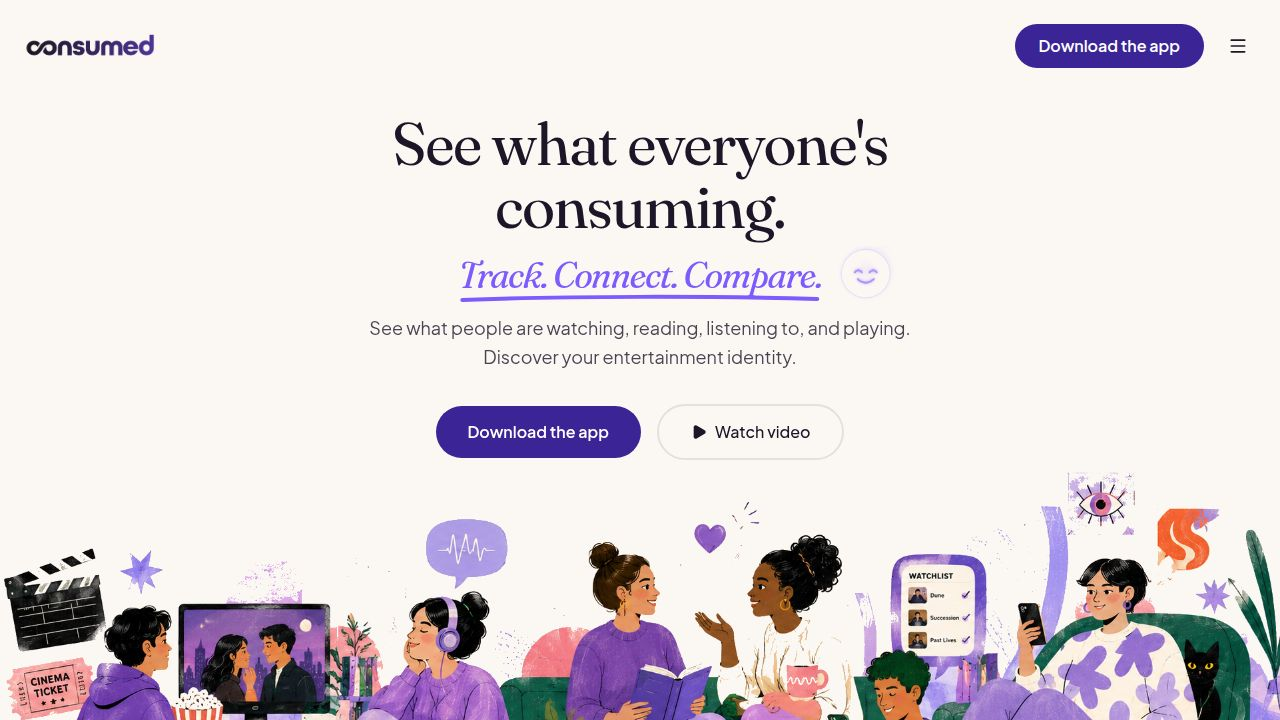
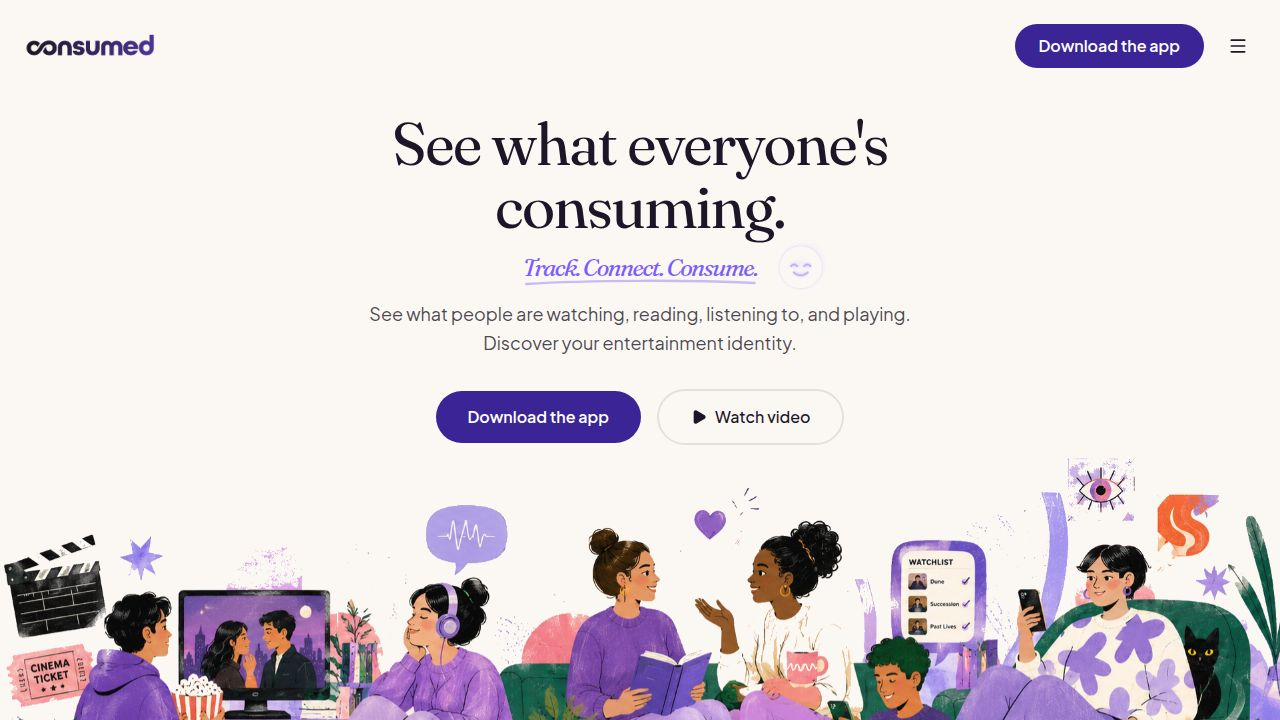
Remove carousel controls and adjust spacing for better layout
Removes navigation buttons, dot indicators, and label from the PhoneCarousel component in `home.tsx`, uninstalls `ChevronLeft` and `ChevronRight` from lucide-react, and adjusts vertical padding on the "how-it-works" and "rooms" sections to reduce excess space.

Replit-Commit-Author: Agent
Replit-Commit-Session-Id: 1054afe4-a81a-4bfc-9d50-b308ff59b433
Replit-Commit-Checkpoint-Type: full_checkpoint
Replit-Commit-Event-Id: a0e9d976-8bd8-4393-b0b6-65352d35b189
Replit-Commit-Screenshot-Url: https://storage.googleapis.com/screenshot-production-us-central1/3ba4014b-a542-439a-b8e3-25ffaea1718b/1054afe4-a81a-4bfc-9d50-b308ff59b433/XyA5uoj
Replit-Helium-Checkpoint-Created: true

Changed region(s): [[0.0, 0.6417, 1.0, 1.0], [0.2812, 0.3361, 0.7188, 0.6417], [0.5312, 0.55, 0.6562, 0.6111]]

diff --git a/client/src/pages/home.tsx b/client/src/pages/home.tsx
@@ -1,7 +1,7 @@
 import { useEffect, useRef, useState } from "react";
 import { Link } from "wouter";
 import { motion } from "framer-motion";
-import { Play, Menu, X, Instagram, ArrowRight, CheckCircle2, Clapperboard, BookOpen, Headphones, Gamepad2, Music2, ChevronLeft, ChevronRight, type LucideIcon } from "lucide-react";
+import { Play, Menu, X, Instagram, ArrowRight, CheckCircle2, Clapperboard, BookOpen, Headphones, Gamepad2, Music2, type LucideIcon } from "lucide-react";
 
 import logoPurple from "@assets/consumed_logo_purple_crop_1769629036769.png";
 
@@ -165,46 +165,6 @@ function PhoneCarousel() {
           );
         })}
       </motion.div>
-
-      <div className="flex items-center gap-5 mt-6">
-        <button
-          onClick={() => go(-1)}
-          data-testid="button-phone-prev"
-          aria-label="Previous screen"
-          className="w-10 h-10 rounded-full border border-foreground/20 flex items-center justify-center hover:bg-foreground/5 transition-colors"
-        >
-          <ChevronLeft className="w-5 h-5" />
-        </button>
-        <div className="flex items-center gap-2">
-          {PHONE_SCREENS.map((_, i) => (
-            <button
-              key={i}
-              onClick={() => setActive(i)}
-              data-testid={`dot-phone-${i}`}
-              aria-label={`Go to screen ${i + 1}`}
-              aria-current={i === active}
-              className={`h-2 rounded-full transition-all ${
-                i === active ? "w-6 bg-primary" : "w-2 bg-foreground/25 hover:bg-foreground/40"
-              }`}
-            />
-          ))}
-        </div>
-        <button
-          onClick={() => go(1)}
-          data-testid="button-phone-next"
-          aria-label="Next screen"
-          className="w-10 h-10 rounded-full border border-foreground/20 flex items-center justify-center hover:bg-foreground/5 transition-colors"
-        >
-          <ChevronRight className="w-5 h-5" />
-        </button>
-      </div>
-
-      <p
-        className="mt-4 text-sm font-medium text-foreground/70"
-        data-testid="text-phone-label"
-      >
-        {PHONE_SCREENS[active].label}
-      </p>
     </div>
   );
 }
@@ -333,7 +293,7 @@ export default function Home() {
         </section>
 
         {/* 3. CATEGORIES */}
-        <section className="pt-0 pb-24 md:pb-32 px-6 container mx-auto max-w-7xl flex flex-col" id="how-it-works">
+        <section className="pt-0 pb-8 md:pb-12 px-6 container mx-auto max-w-7xl flex flex-col" id="how-it-works">
           <div className="grid grid-cols-2 md:grid-cols-3 lg:grid-cols-5 gap-4 md:gap-6">
             {[
               { title: "Movies & TV", desc: "Track what you watch and rate honestly.", Icon: Clapperboard, color: "#a98fd6", seed: 7 },
@@ -384,7 +344,7 @@ export default function Home() {
         </section>
 
         {/* 4. ROOMS / SOCIAL */}
-        <section className="py-24 md:py-32 bg-secondary/40" id="rooms">
+        <section className="pt-12 md:pt-16 pb-24 md:pb-32 bg-secondary/40" id="rooms">
           <div className="container mx-auto px-6 max-w-3xl">
             <motion.div
                 initial={{ opacity: 0, y: 20 }}
